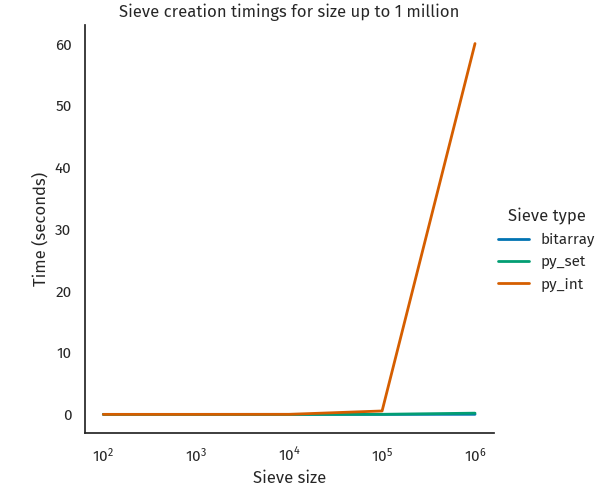
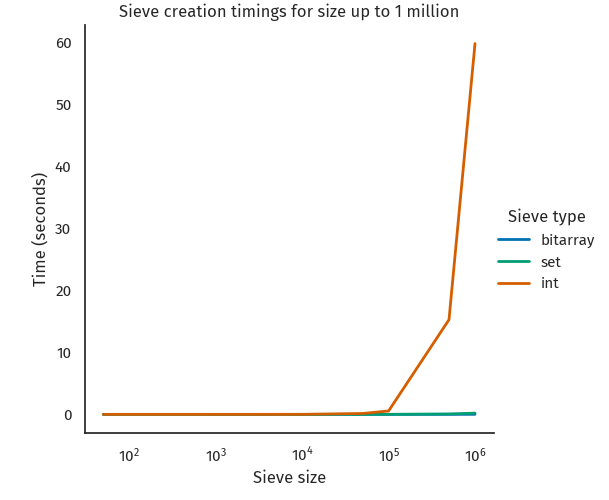
more (interior) data points for sieve times

diff --git a/profiling/timing_plots.py b/profiling/timing_plots.py
@@ -12,11 +12,16 @@ def load_data() -> PolarsDF:
 
     cvs_data = b"""
         size,Sieve,IntSieve,SetSieve
-        100,0.0002202501054853201,0.00001795799471437931,0.000032499898225069046
-        1000,0.000016040867194533348,0.0002026669681072235,0.00008208304643630981
-        10000,0.00011612498201429844,0.007421791087836027,0.0008759999182075262
-        100000,0.0010569170117378235,0.5530140828341246,0.010142415994778275
-        1000000,0.011054749833419919,60.09357604198158,0.1988552080001682
+        100,0.00017137499526143074,0.000017999671399593353,0.000042750034481287
+        1000,0.000016292091459035873,0.00017720786854624748,0.0000866670161485672
+        10000,0.00010245898738503456,0.007494000252336264,0.0008742911741137505
+        100000,0.0010270839557051659,0.5487742917612195,0.009959292132407427
+        1000000,0.010919792111963034,59.795512250158936,0.19800291722640395
+        50,2.0833685994148254e-6,0.000013249926269054413,0.000014875084161758423
+        500,1.2922100722789764e-6,0.00007804157212376595,0.00004054093733429909
+        5000,1.25030055642128e-6,0.002527667209506035,0.0004529156722128391
+        50000,1.3331882655620575e-6,0.14295708294957876,0.004889749921858311
+        500000,7.2498805820941925e-6,15.271088582929224,0.07385779218748212
     """.replace(b" ", b"")
 
     # We don't need 64 bit precision

diff --git a/profiling/profile_sieve.py b/profiling/profile_sieve.py
@@ -15,6 +15,7 @@ def sieve_count(s_class: Sievish, size: int) -> int:
 
 
 sizes: list[int] = [10**n for n in range(2, 7)]
+sizes += [5 * (10**n) for n in range(1, 6)]
 
 s_classes: list[str] = [
     f"{c.__name__}"
